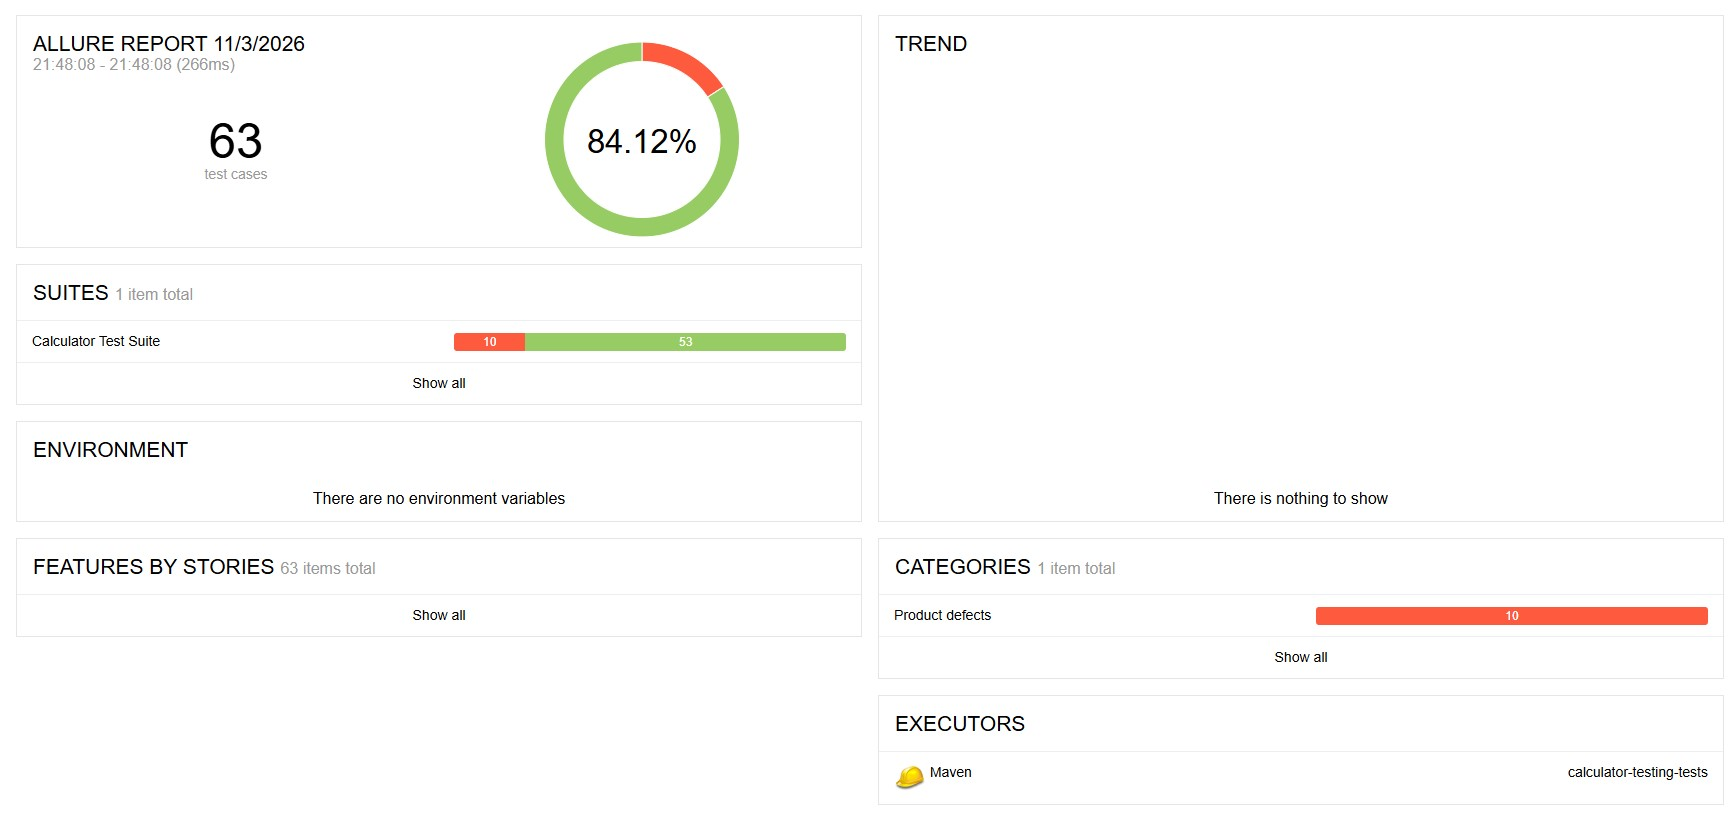
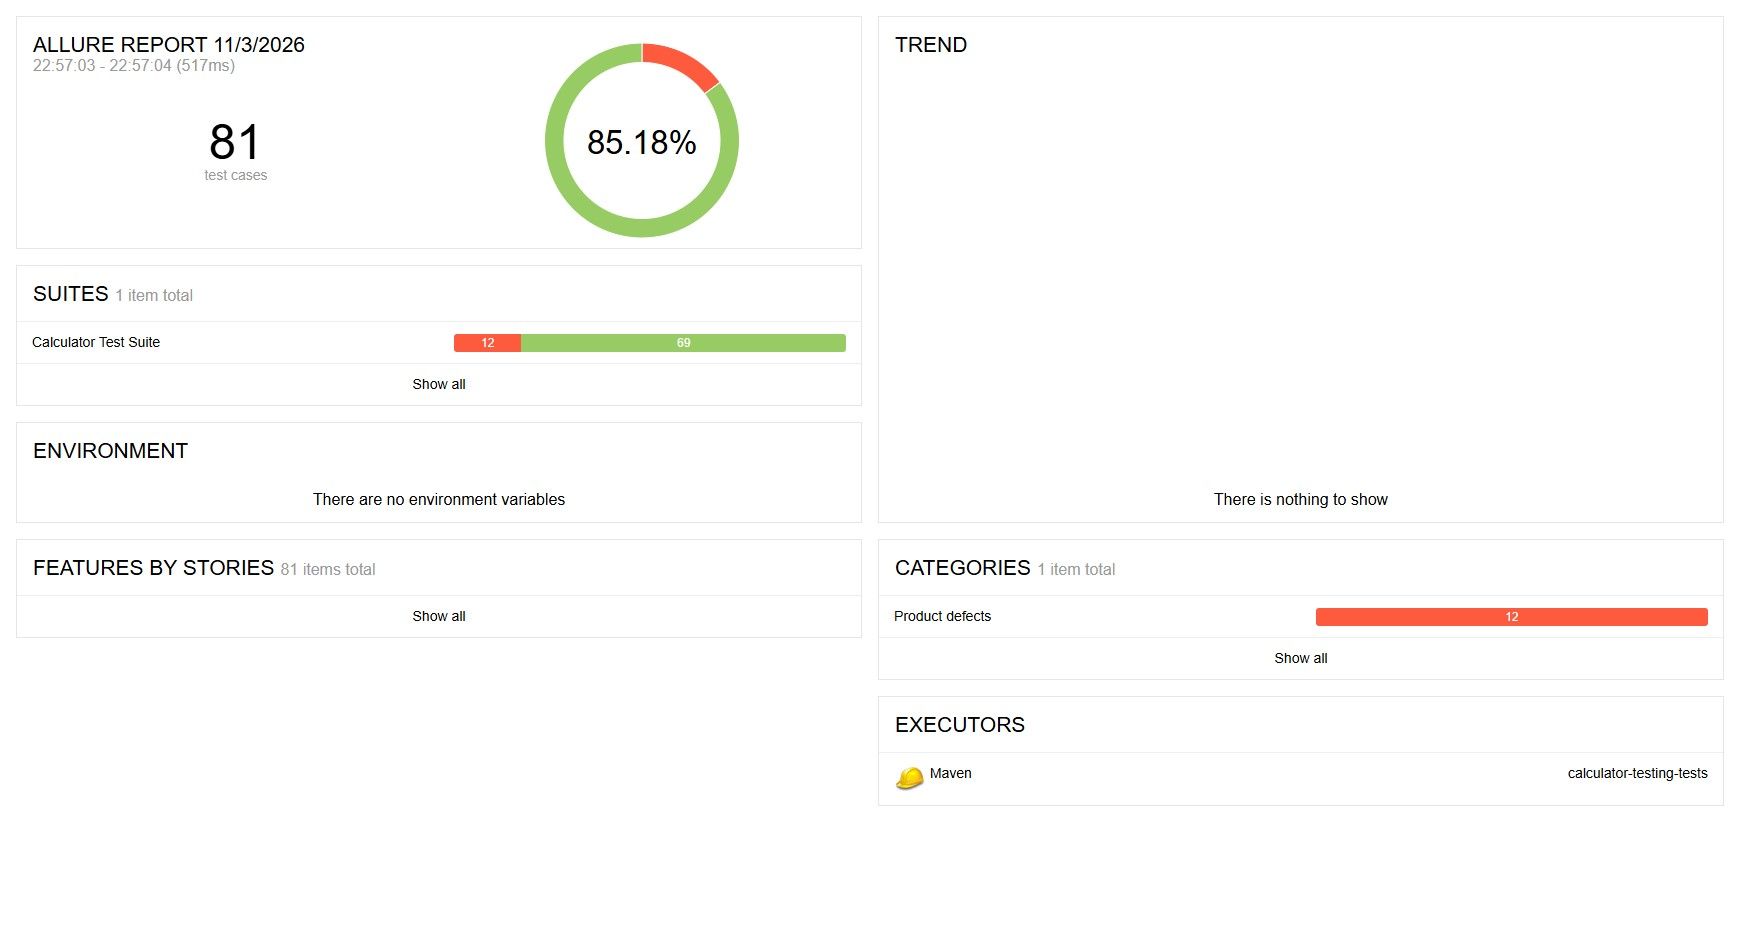
Complete Calculator test coverage and update documentation

diff --git a/src/test/java/com/epam/calculator/tests/DivTest.java b/src/test/java/com/epam/calculator/tests/DivTest.java
@@ -46,4 +46,22 @@ public class DivTest {
     public void testDivisionByZero() {
         calculator.div(10L, 0L);
     }
+
+    @Test(dataProvider = "divDoubleData", groups = "arithmetic")
+    public void testDivDouble(double a, double b, double expected) {
+        double result = calculator.div(a, b);
+        Assert.assertEquals(result, expected, 0.000001);
+    }
+
+    @DataProvider(name = "divDoubleData")
+    public Object[][] provideDivDoubleData() {
+        return new Object[][] {
+                {10.5, 2.0, 5.25},
+                {-10.5, 2.0, -5.25},
+                {-10.5, -2.0, 5.25},
+                {0.0, 3.0, 0.0},
+                {1.0, 4.0, 0.25},
+                {7.5, 2.5, 3.0}
+        };
+    }
 }

diff --git a/src/test/java/com/epam/calculator/tests/MultTest.java b/src/test/java/com/epam/calculator/tests/MultTest.java
@@ -34,4 +34,22 @@ public class MultTest {
                 {Long.MAX_VALUE, 1L, Long.MAX_VALUE}
         };
     }
+
+    @Test(dataProvider = "multDoubleData", groups = "arithmetic")
+    public void testMultDouble(double a, double b, double expected) {
+        double result = calculator.mult(a, b);
+        Assert.assertEquals(result, expected, 0.000001);
+    }
+
+    @DataProvider(name = "multDoubleData")
+    public Object[][] provideMultDoubleData() {
+        return new Object[][] {
+                {2.5, 4.0, 10.0},
+                {-2.5, 4.0, -10.0},
+                {-2.5, -4.0, 10.0},
+                {0.0, 5.7, 0.0},
+                {0.1, 0.2, 0.02},
+                {1.5, 2.5, 3.75}
+        };
+    }
 }

diff --git a/src/test/java/com/epam/calculator/tests/SubTest.java b/src/test/java/com/epam/calculator/tests/SubTest.java
@@ -35,4 +35,21 @@ public class SubTest {
                 {Long.MIN_VALUE, 0L, Long.MIN_VALUE}
         };
     }
+    @Test(dataProvider = "subDoubleData", groups = "arithmetic")
+    public void testSubDouble(double a, double b, double expected) {
+        double result = calculator.sub(a, b);
+        Assert.assertEquals(result, expected, 0.000001);
+    }
+
+    @DataProvider(name = "subDoubleData")
+    public Object[][] provideSubDoubleData() {
+        return new Object[][] {
+                {10.5, 3.2, 7.3},
+                {3.2, 10.5, -7.3},
+                {-5.5, -3.2, -2.3},
+                {0.0, 0.0, 0.0},
+                {1.5, 0.5, 1.0},
+                {-2.5, 1.5, -4.0}
+        };
+    }
 }

diff --git a/README.md b/README.md
@@ -2,11 +2,11 @@
 
 ## Project Overview
 
-This project contains automated unit tests for the EPAM Calculator 1.0 library.
+This project contains automated unit tests for the EPAM Calculator library.
 
-The tests verify arithmetic operations, mathematical functions, trigonometric functions, and number validation.
+The purpose of the project is to validate calculator functionality and demonstrate automated testing practices using Java, TestNG, Maven, and Allure.
 
-The project demonstrates unit testing with TestNG, data-driven testing, test groups, parallel execution, and Allure reporting.
+The test suite covers arithmetic operations, mathematical functions, trigonometric functions, and number validation.
 
 ## Technologies
 
@@ -17,163 +17,124 @@ The project demonstrates unit testing with TestNG, data-driven testing, test gro
 - Allure TestNG 2.29.1
 - Allure Maven Plugin 2.12.0
 - EPAM Calculator 1.0
-- IntelliJ IDEA
 
-## Test Organization
+## Test Coverage
 
-The project contains 12 test classes, each responsible for testing one Calculator method.
+The project contains 12 test classes covering the following Calculator methods:
 
-| Test Class | Method |
+| Category | Methods |
 |---|---|
-| SumTest | sum() |
-| SubTest | sub() |
-| MultTest | mult() |
-| DivTest | div() |
-| PowTest | pow() |
-| SqrtTest | sqrt() |
-| TgTest | tg() |
-| CtgTest | ctg() |
-| CosTest | cos() |
-| SinTest | sin() |
-| IsPositiveTest | isPositive() |
-| IsNegativeTest | isNegative() |
+| Arithmetic | `sum()`, `sub()`, `mult()`, `div()` |
+| Mathematics | `pow()`, `sqrt()` |
+| Trigonometry | `sin()`, `cos()`, `tg()`, `ctg()` |
+| Validation | `isPositive()`, `isNegative()` |
 
-The tests are organized into four TestNG groups:
+Arithmetic tests cover both `long` and `double` method overloads.
+
+The suite includes positive, negative, zero, boundary, and invalid-input scenarios where applicable.
+
+## Test Framework Features
+
+- Separate test classes for individual Calculator methods
+- Data-driven testing using TestNG `@DataProvider`
+- Test lifecycle management using `@BeforeMethod` and `@AfterMethod` where applicable
+- Test grouping by functionality
+- Parallel test execution using four threads
+- Maven-based test execution
+- Allure test reporting
+
+## Project Structure
+
+```text
+calculator-testing-tests/
+├── libs/
+│   └── calculator-1.0.jar
+├── src/
+│   └── test/
+│       ├── java/
+│       │   └── com/epam/calculator/tests/
+│       │       └── *Test.java
+│       └── resources/
+│           └── allure.properties
+├── screenshots/
+├── pom.xml
+├── testng.xml
+└── README.md
+```
+
+## Prerequisites
+
+- JDK 17
+- Apache Maven
+- IntelliJ IDEA (optional)
+
+## Setup
+
+Clone the repository and navigate to the project directory.
+
+The Calculator library is provided in the `libs/` directory and must be installed in the local Maven repository before running the tests.
+
+```bash
+mvn install:install-file -Dfile=libs/calculator-1.0.jar -DgroupId=com.epam.tat -DartifactId=calculator -Dversion=1.0 -Dpackaging=jar
+```
+
+## Running Tests
+
+Run the complete test suite:
+
+```bash
+mvn clean test
+```
+
+Alternatively, execute `testng.xml` directly from IntelliJ IDEA.
+
+The TestNG suite is configured with four functional groups:
 
 - `arithmetic`
 - `math`
 - `trigonometry`
 - `validation`
 
-Test data is provided using TestNG `@DataProvider` annotations.
-
-Test setup and cleanup use TestNG lifecycle annotations, including `@BeforeMethod` and `@AfterMethod`.
-
-The `testng.xml` configuration supports parallel execution of test classes using four threads.
-
-## Running Tests
-
-### Prerequisites
-
-- Java 17
-- Maven
-- EPAM Calculator 1.0 library installed in the local Maven repository
-
-The Calculator JAR is referenced as a Maven dependency.
-
-### Execute Tests
-
-Run the complete test suite from the project root:
-
-```bash
-mvn clean test
-```
-
-Alternatively, run the `testng.xml` configuration directly in IntelliJ IDEA.
-
-The suite includes grouped tests and parallel execution.
-
-## Test Execution Results
-
-Results from the complete TestNG suite:
-
-| Metric | Result |
-|---|---:|
-| Total tests | 63 |
-| Passed | 53 |
-| Failed | 10 |
-| Errors | 0 |
-| Skipped | 0 |
-| Pass rate | 84.12% |
-
-The failed assertions indicate observed discrepancies between expected and actual results returned by the Calculator library.
-
-Maven reports `BUILD FAILURE` when test assertions fail. This is expected behavior for the current test execution.
-
-## Known Defects
-
-### DEF-001 — Incorrect Cosine Calculation
-
-The `cos()` method returns incorrect values for some inputs.
-
-Example:
-
-- Input: `0`
-- Expected: `1.0`
-- Actual: `0.0`
-
-Affected test class: `CosTest`.
-
-### DEF-002 — Incorrect Cotangent Calculation
-
-The `ctg()` method returns incorrect values for some inputs.
-
-Example:
-
-- Input: `π/4`
-- Expected: approximately `1.0`
-- Actual: approximately `0.655794`
-
-Affected test class: `CtgTest`.
-
-### DEF-003 — Incorrect Tangent Calculation
-
-The `tg()` method returns incorrect values for some inputs.
-
-Examples include incorrect results for negative angles and angles where the expected tangent is zero.
-
-Affected test class: `TgTest`.
-
-These defects are based on observed test failures and should be investigated in the Calculator library implementation.
+Parallel execution is configured at the class level using four threads.
 
 ## Allure Reporting
 
-The project integrates Allure with TestNG to generate detailed test execution reports.
+The project integrates Allure for detailed test execution reporting.
 
-Allure provides:
-
-- Test execution statistics
-- Passed and failed test results
-- Test suite organization
-- Assertion failure details
-- Test execution duration
-
-### Generate Allure Report
-
-After running the tests, execute:
+After executing the tests, generate a report:
 
 ```bash
 mvn allure:report
 ```
 
-### Open Allure Report
+To generate and open the report in a browser:
 
 ```bash
 mvn allure:serve
 ```
 
-Allure results are configured to be stored in:
+Test execution results are stored in:
 
 `target/allure-results`
 
-The report can be viewed in a web browser.
+Allure provides test statistics, execution details, assertion failures, and test suite information.
 
-## Test Execution Evidence
+## Test Results and Known Issues
 
-Screenshots of test execution results are available in the `screenshots/` directory.
+The test suite validates actual Calculator results against expected behavior.
 
-The evidence includes:
+Some tests may fail due to discrepancies in the Calculator library implementation.
 
-- Allure Overview dashboard
-- TestNG execution results in IntelliJ IDEA
-- Examples of failed assertions
+Such failures are intentionally preserved to document unexpected behavior rather than modifying assertions to match incorrect results.
+
+Maven may report `BUILD FAILURE` when test assertions fail.
+
+Detailed execution results and failure information are available in Allure reports.
+
+Screenshots of test executions are available in the `screenshots/` directory.
 
 ## Conclusion
 
-The project demonstrates automated unit testing of the EPAM Calculator library using TestNG and Maven.
+This project demonstrates automated unit testing using Java, TestNG, Maven, and Allure.
 
-It includes 12 test classes, data-driven testing, test groups, parallel execution, and Allure reporting.
-
-The complete suite executes 63 test cases, with 53 passing and 10 failing due to observed calculation discrepancies.
-
-The test results and reports provide evidence of the detected issues.
+It provides reusable, data-driven tests, grouped and parallel execution, and detailed reporting to support validation and defect investigation.
